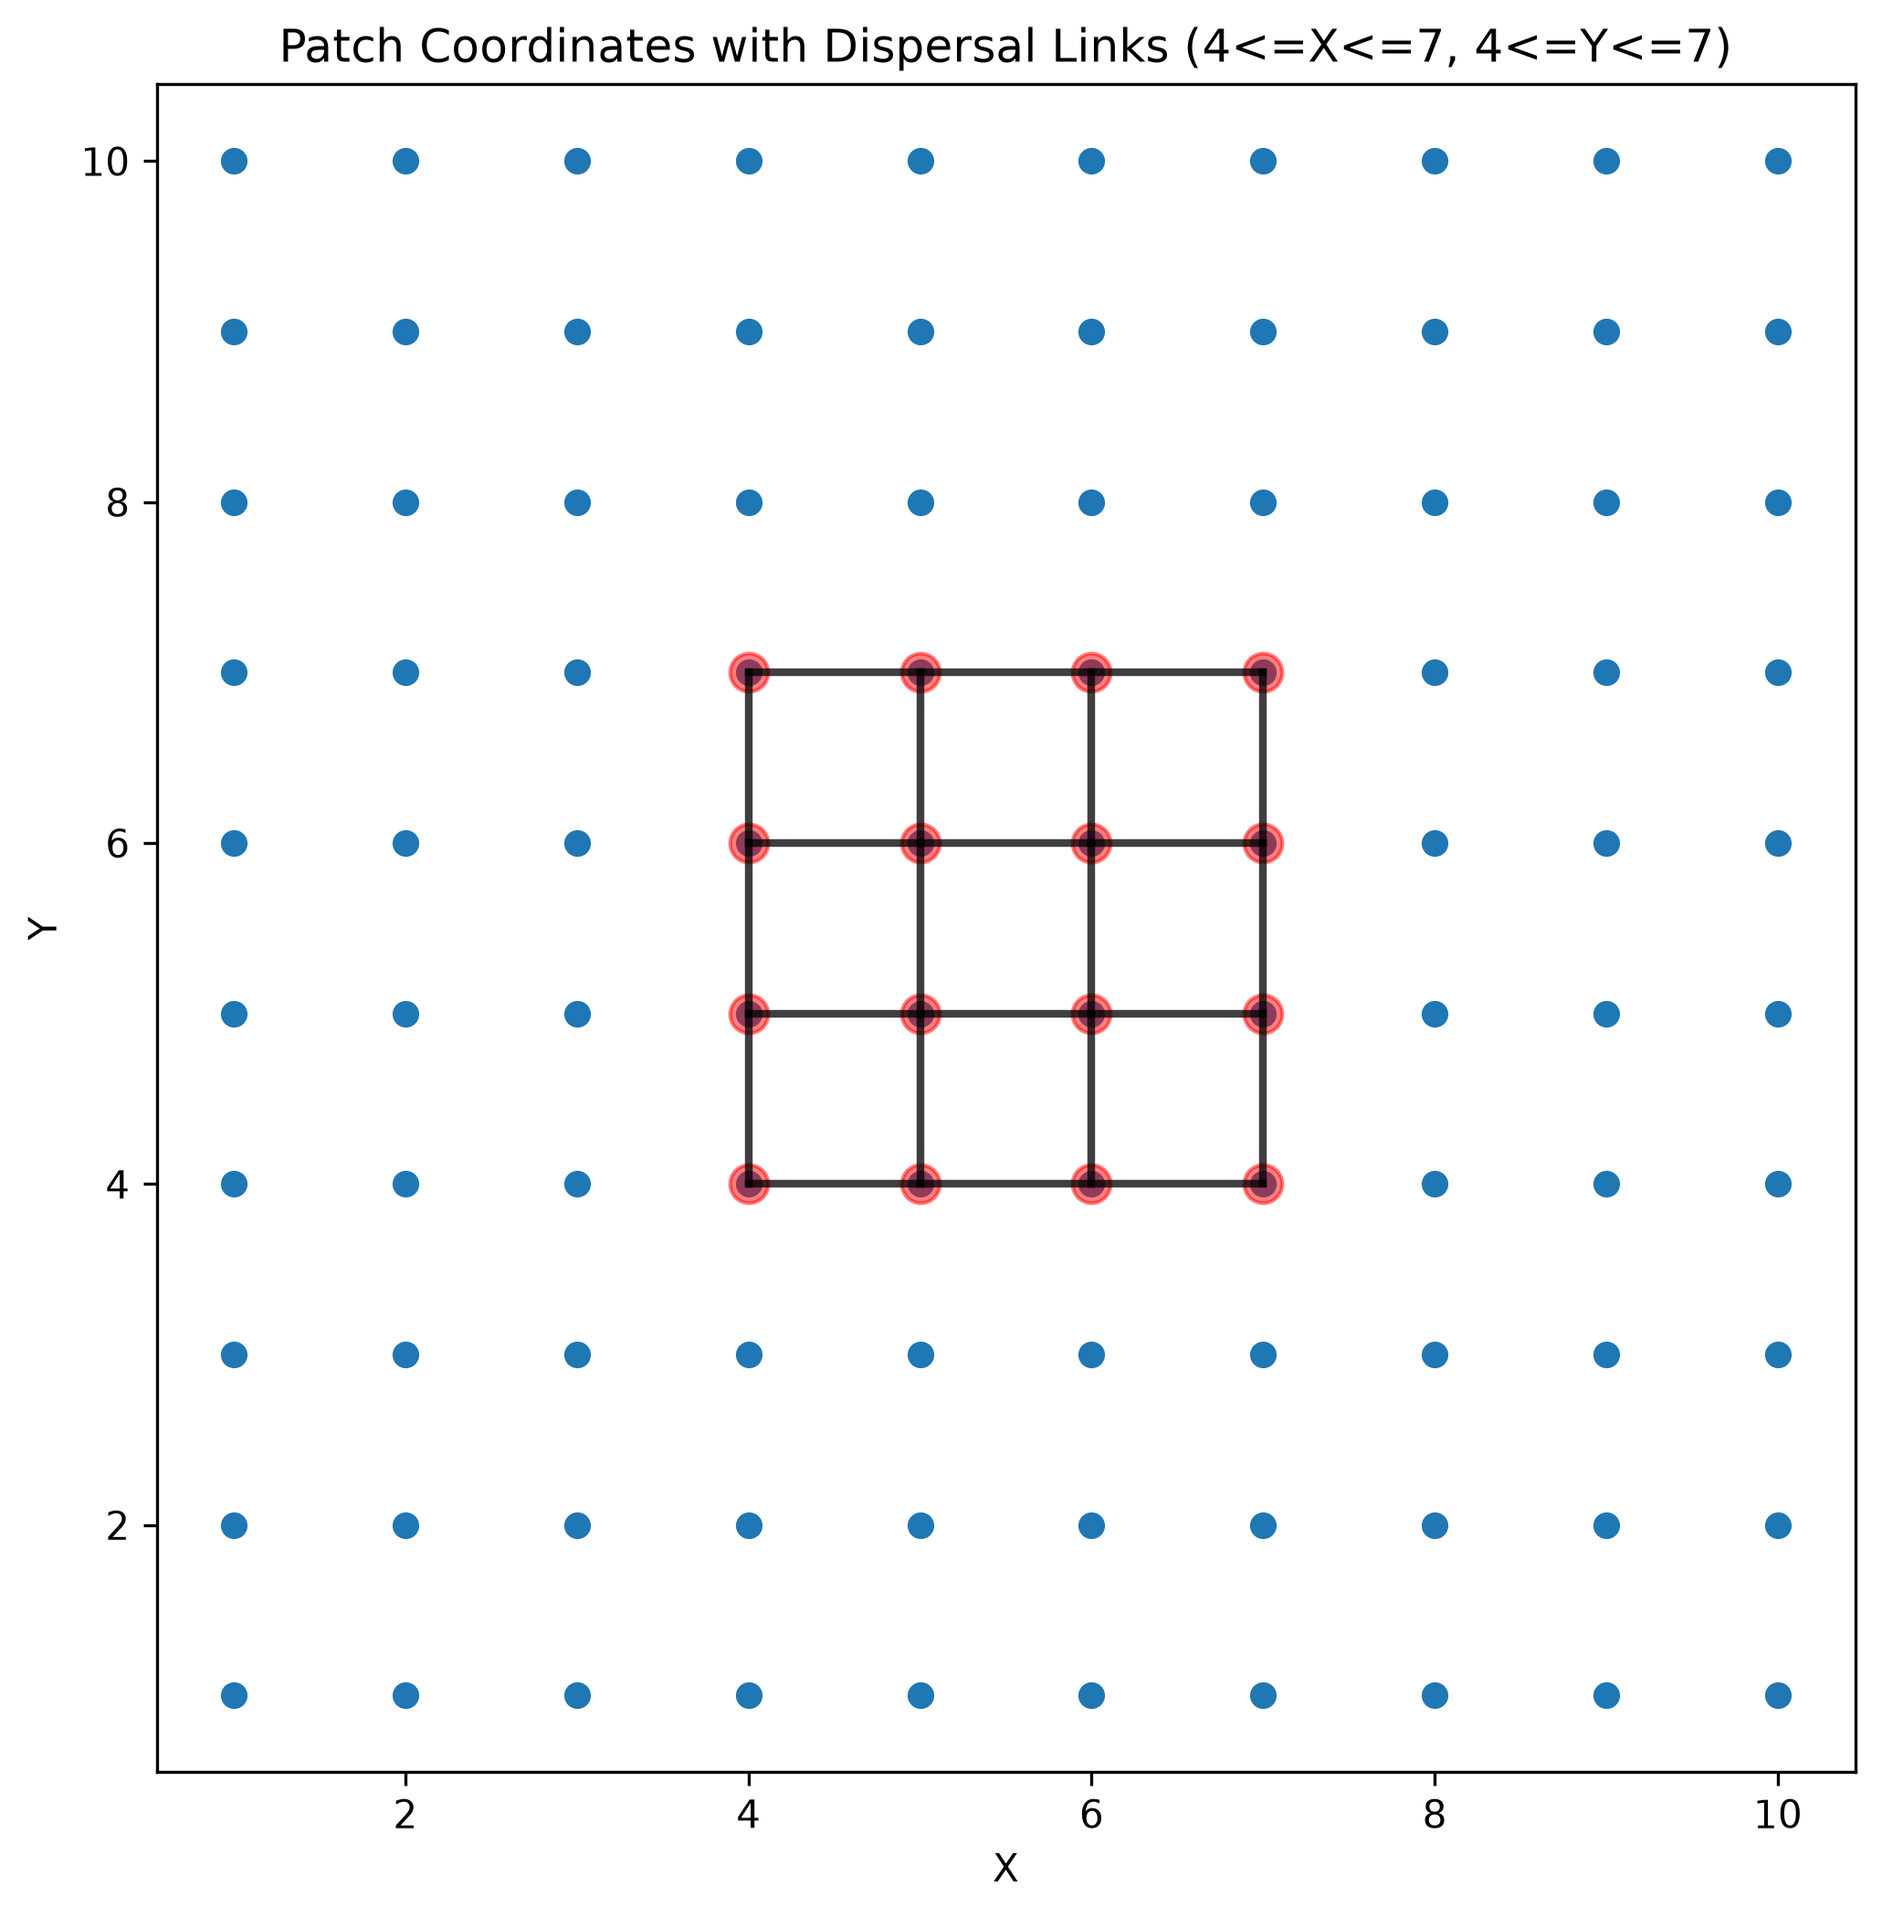
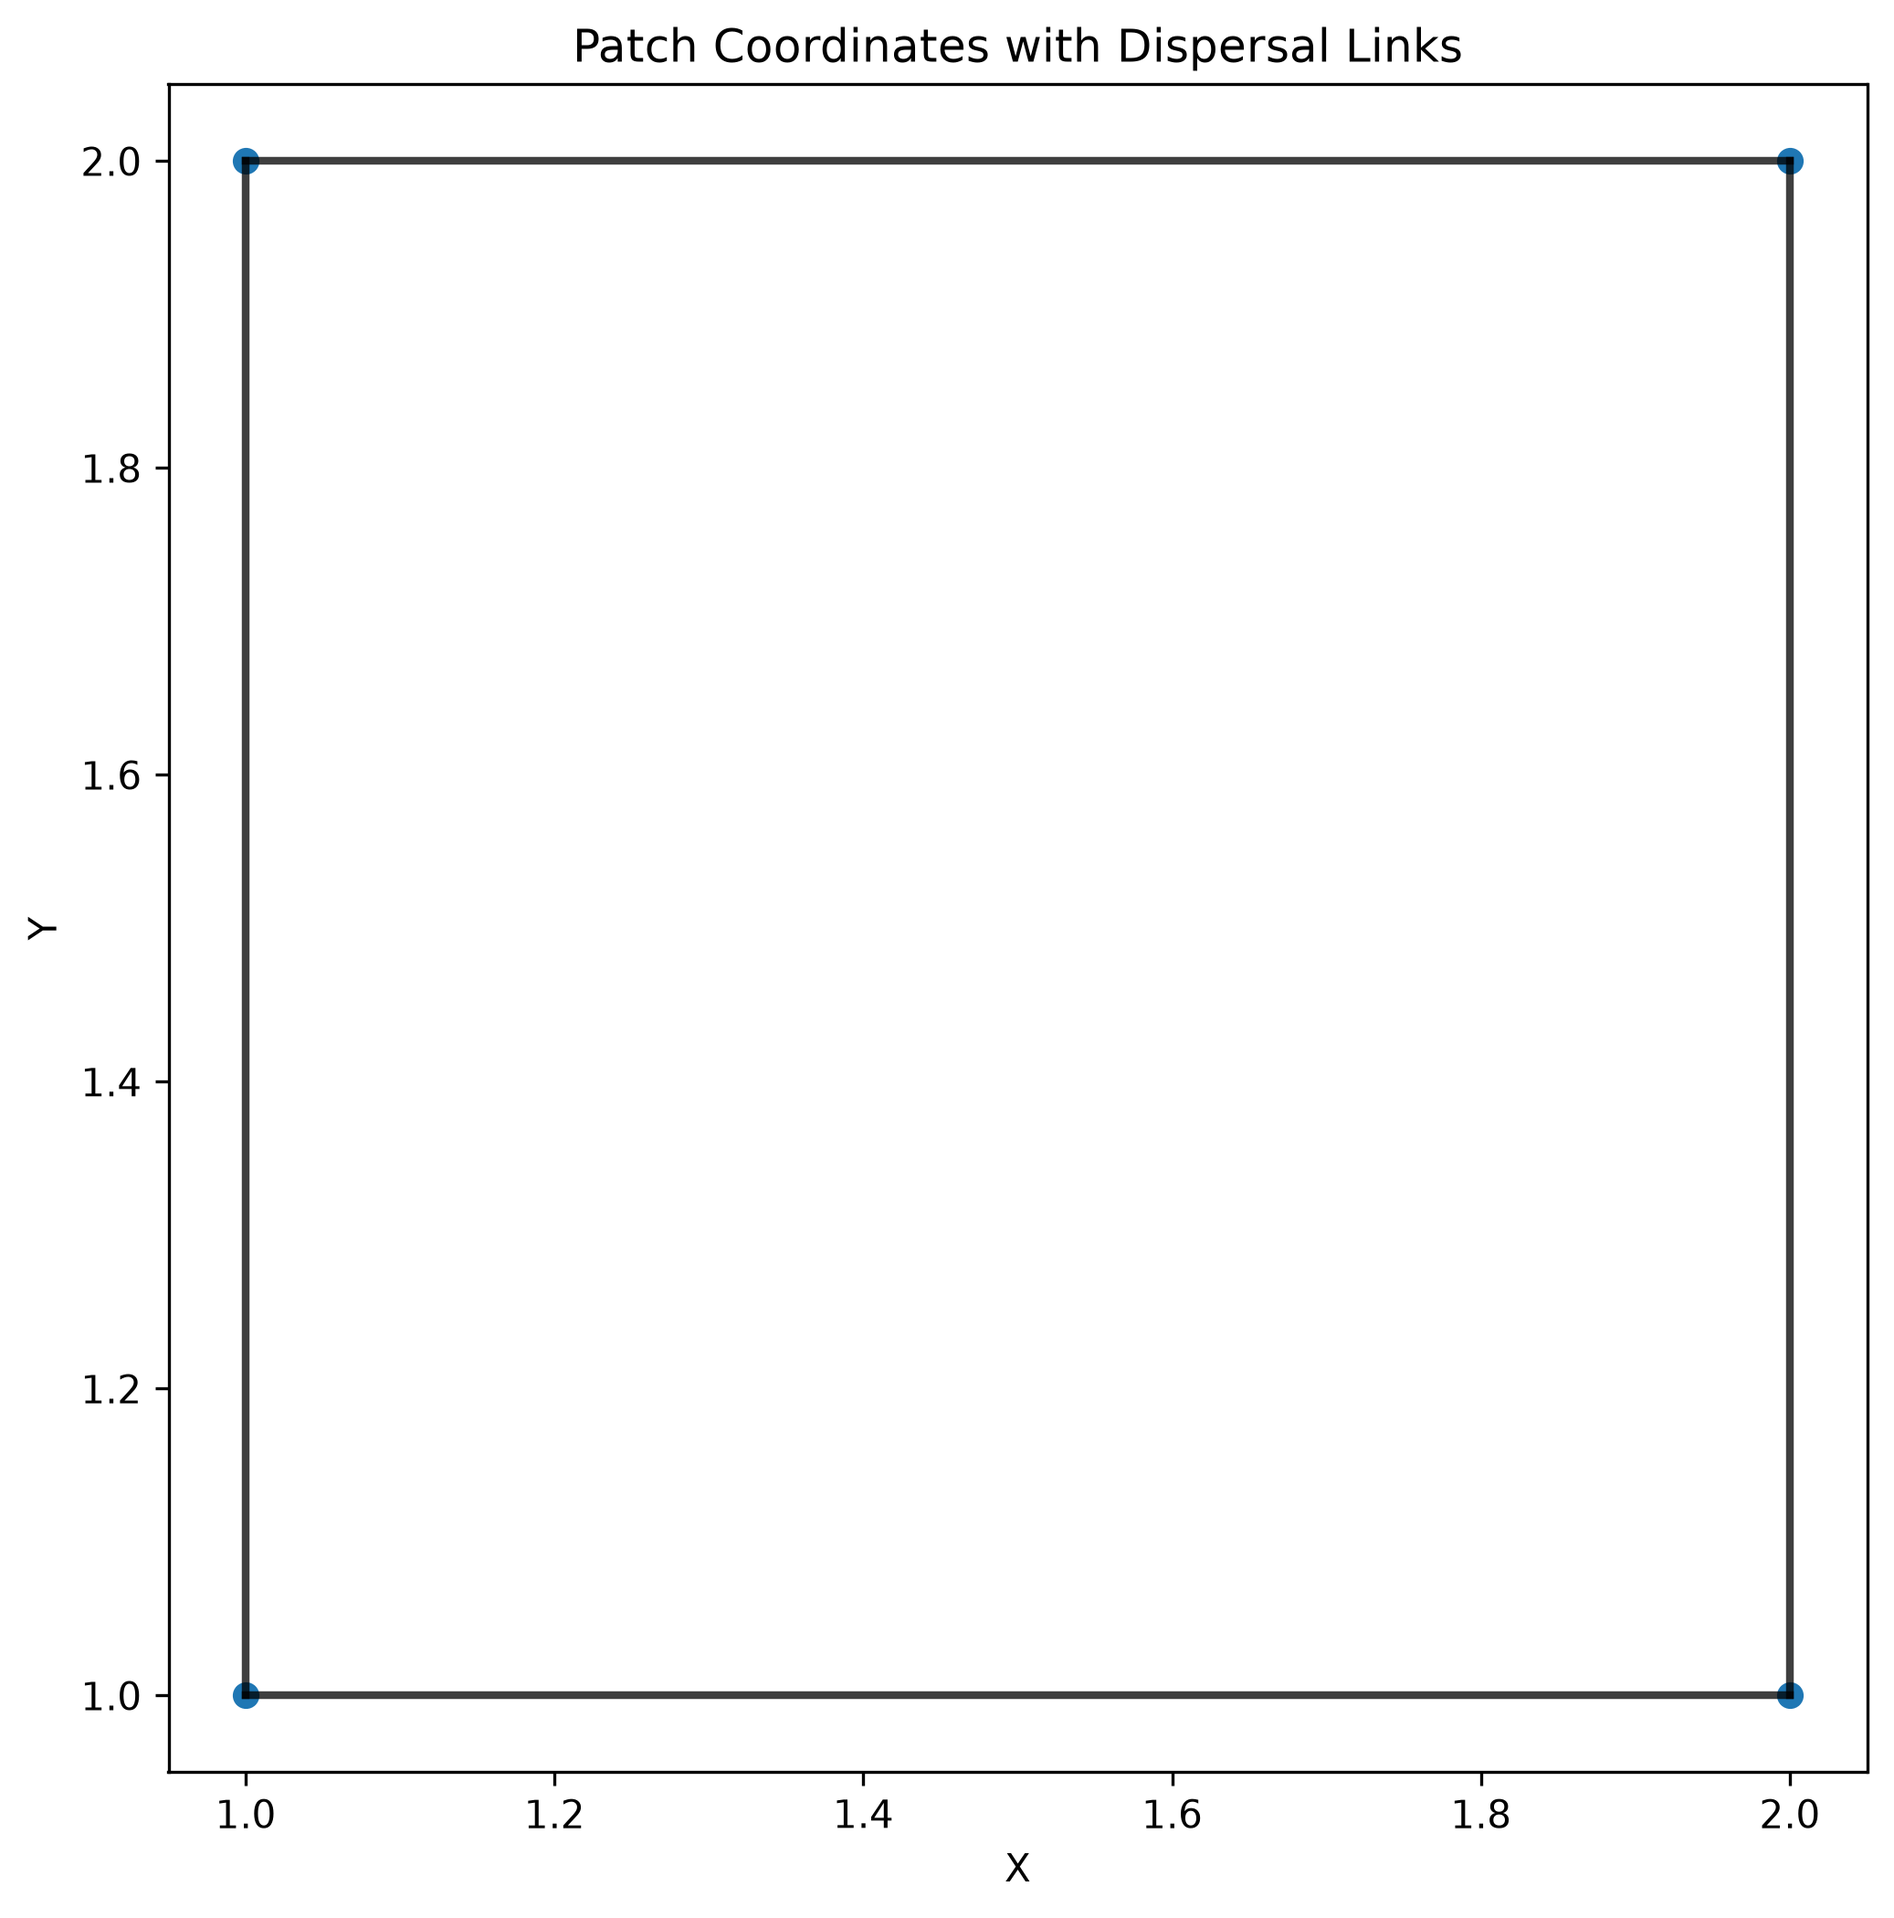
The branch to explore and log the attempt to try and minimise the number of parameters in csv files.
Read the README.txt files in the numbered output files to see the flow and order of logic.

Changes mae to files after copying from wip-ai:

CDmetaPOP.py:
Added a random seed immediately after numpy is defined.

Changes to the toyexample:
ncores 6->1 (machine limit, and enables seeding)
mcruns 6->3 (time)
runtime 3000->100 (time)
outputyears 100->1 (time)

patchvars/PatchVars:
Got rid of all but 4 nodes, for quickness of simulation for this checking. System is a 2x2 now.

Other csv files were changed depending on the thing being studied in the moment.

diff --git a/src/CDmetaPOP.py b/src/CDmetaPOP.py
@@ -32,6 +32,12 @@ from multiprocessing import Process, Pool, Queue
 import multiprocessing
 import numpy as np
 
+##################################
+#ADDING FIXED RANDOM SEED HERE FOR REPRODUCIBILITY
+np.random.seed(12345)
+##################################
+
+
 #Import the package specific folders
 CDPOP_folder = os.path.dirname(os.path.abspath(SRC_PATH+"CDmetaPOP"))
 

diff --git a/exeter_helper_scripts/notes.md b/exeter_helper_scripts/notes.md
@@ -1,3 +1,3 @@
-uv run generate_matrix_ai.py --f 0.1
+uv run generate_matrix_ai.py --f 0.5
 sh run_scenario.sh Test1
 uv run analysis_ai.py Test1
